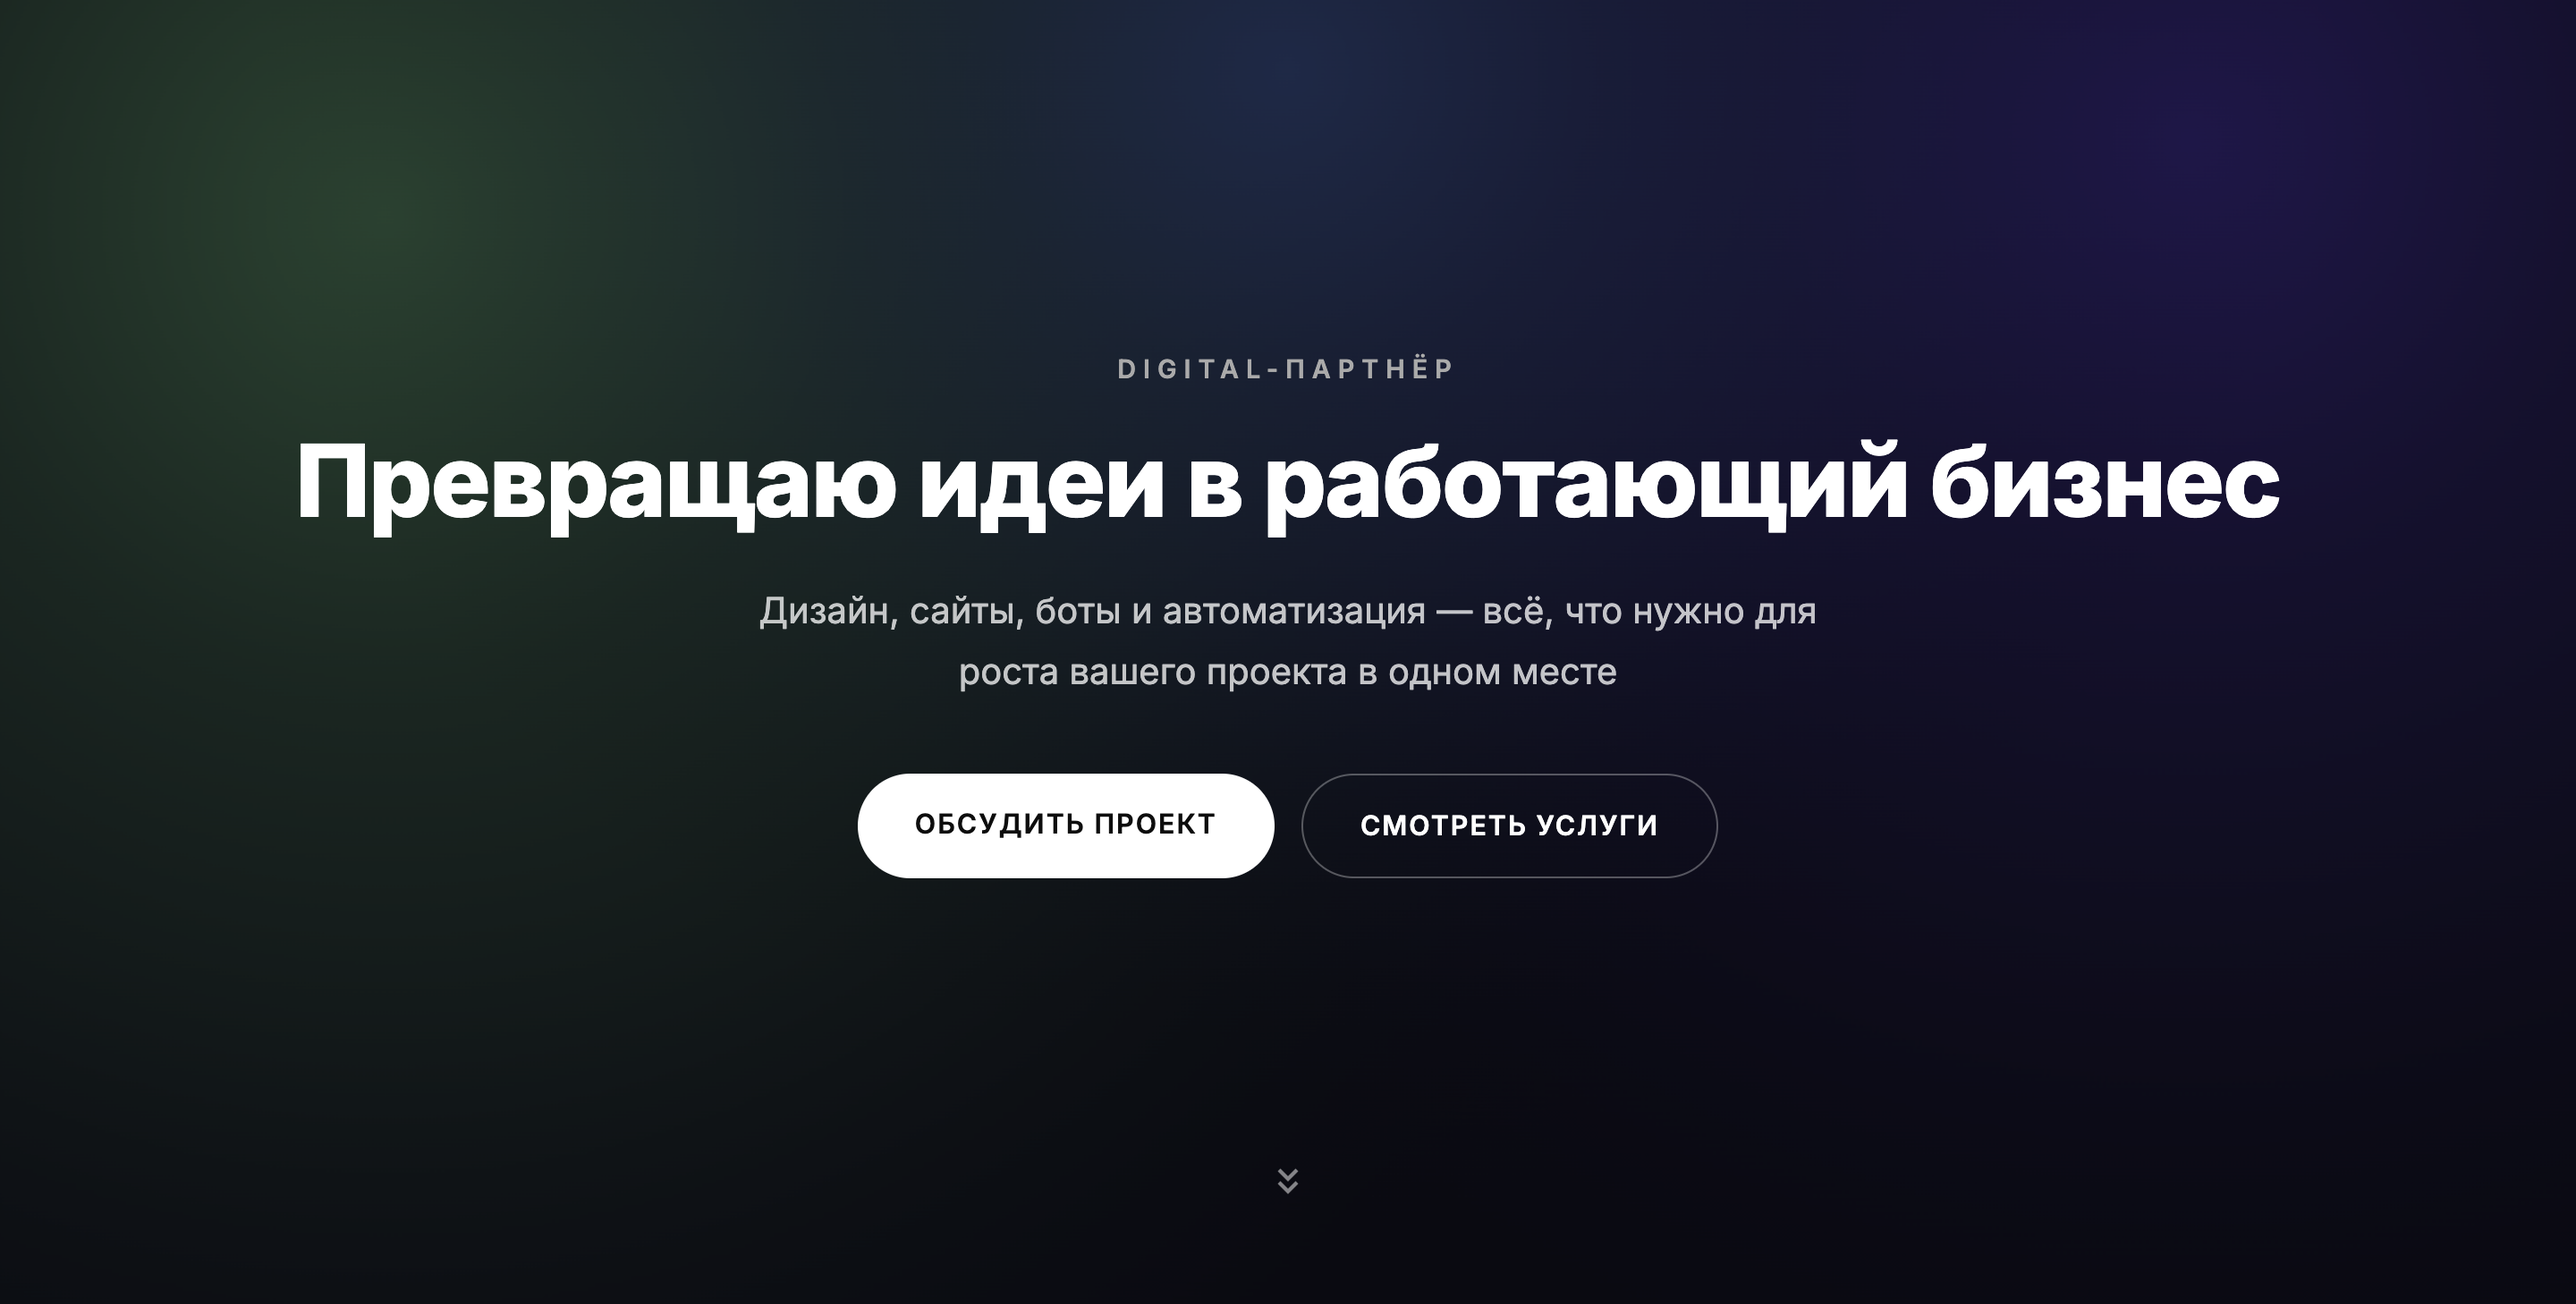
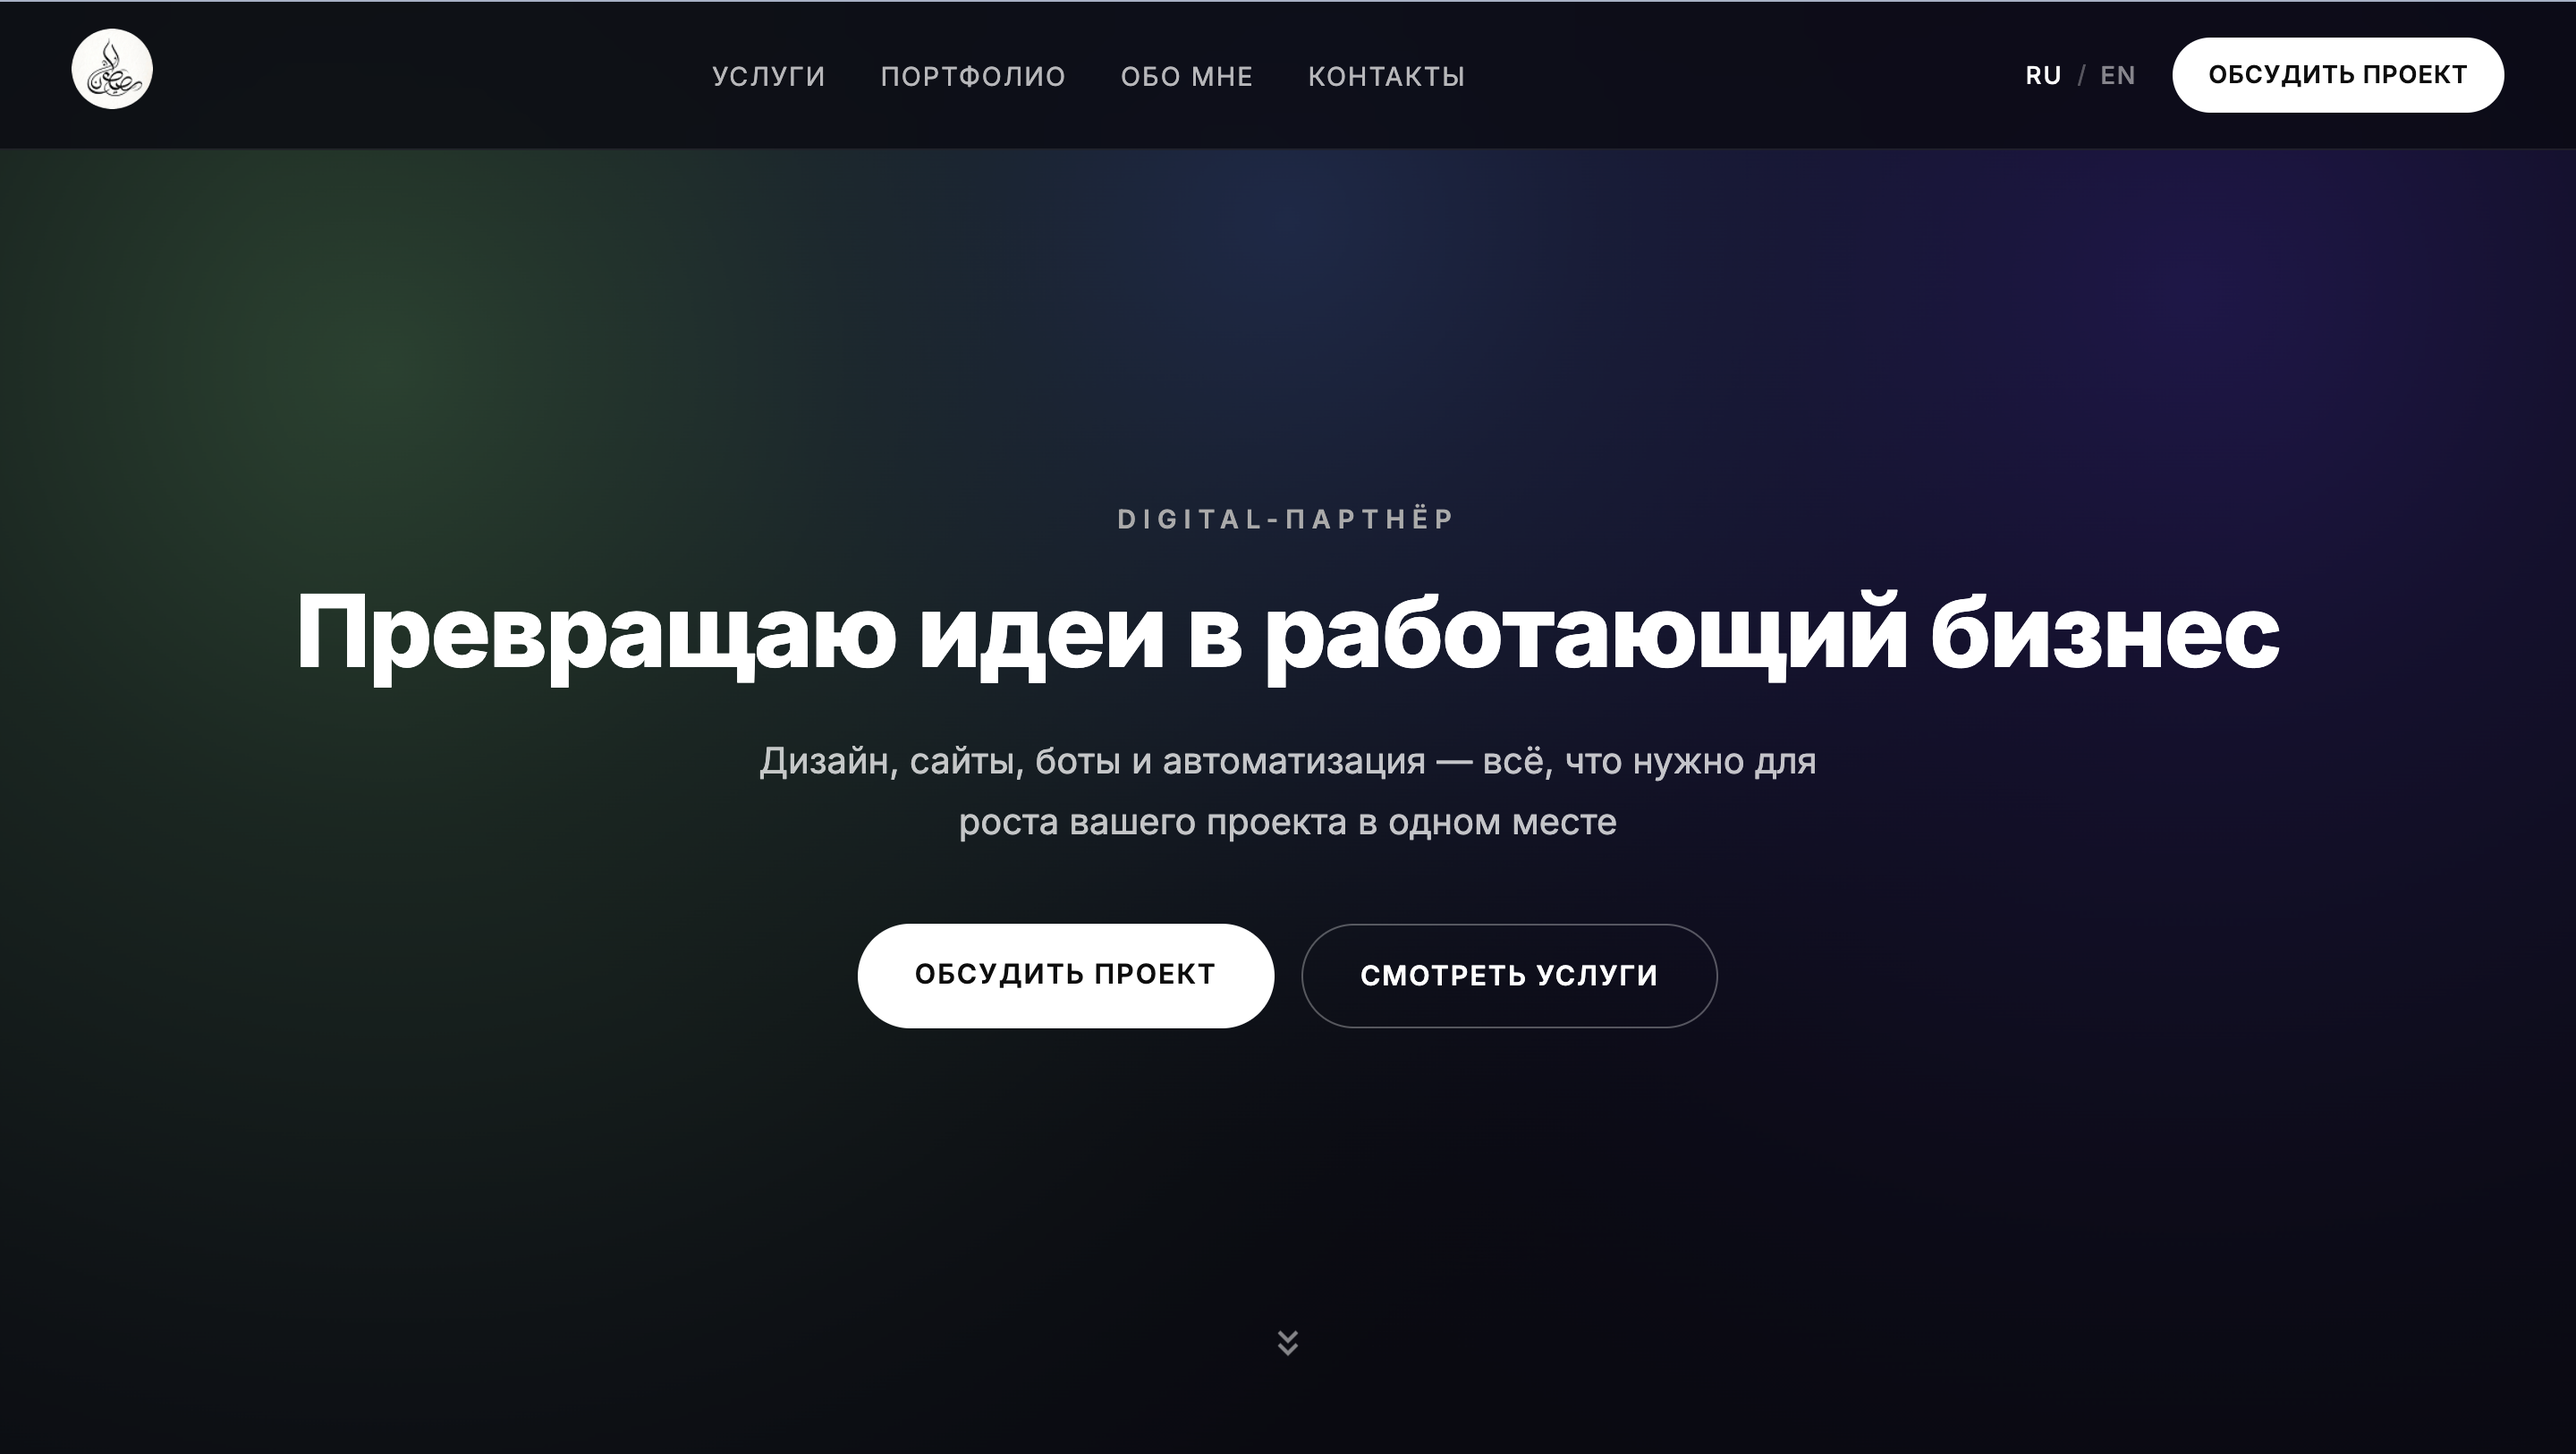
Update Mustafa screenshot + revert website card image format
- Replace screen_mustafa.png with new hero section screenshot
- Revert website card images to natural aspect ratio (height: auto)
  so both site cards display consistently

diff --git a/portfolio-page.css b/portfolio-page.css
@@ -87,17 +87,14 @@
 /* Image */
 .project-image {
     width: 100%;
-    height: 260px;
     background: linear-gradient(135deg, rgba(255, 255, 255, 0.05) 0%, rgba(255, 255, 255, 0.02) 100%);
     overflow: hidden;
 }
 
 .project-image img {
     width: 100%;
-    height: 100%;
+    height: auto;
     display: block;
-    object-fit: cover;
-    object-position: top;
     transition: transform 0.4s ease;
 }
 
@@ -105,9 +102,19 @@
     transform: scale(1.03);
 }
 
-/* Portrait cards — taller image */
+/* Portrait cards — limit image height */
 .project-card-portrait .project-image {
-    height: 400px;
+    max-height: 400px;
+    display: flex;
+    align-items: flex-start;
+    justify-content: center;
+}
+
+.project-card-portrait .project-image img {
+    width: 100%;
+    height: auto;
+    object-fit: cover;
+    object-position: top;
 }
 
 /* Info */
@@ -281,11 +288,7 @@
         padding: 20px;
     }
 
-    .project-image {
-        height: 200px;
-    }
-
     .project-card-portrait .project-image {
-        height: 300px;
+        max-height: 300px;
     }
 }
